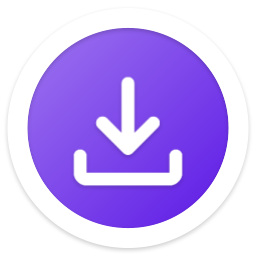
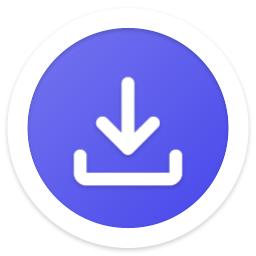
Flesh out search UI

diff --git a/lib/api/beatmaps.js b/lib/api/beatmaps.js
@@ -286,6 +286,7 @@ const getSearchFilterSql = query => {
         if (statusCols[key]) {
             const col = statusCols[key];
             for (const v of list) {
+                console.log(v);
                 const status = utils.osuStatusToInt(v);
                 whereClauses.push(`${col} = ?`);
                 sqlParams.push(status);
@@ -387,7 +388,11 @@ const getSearchFilterSql = query => {
     }
 
     // Join text parts
-    const textQuery = textTerms.join(' ').trim();
+    const textQuery = textTerms
+        .map(term => term.trim())
+        .filter(Boolean)
+        .map(term => `"${term.replace(/"/g, '""')}"`)
+        .join(' ');
 
     if (textQuery || shouldJoinSearchTable) {
         whereClauses.push(`map_search MATCH ?`);
@@ -465,10 +470,10 @@ const searchBeatmaps = (query = '', sort = 'auto', limit = 100, offset = 0) => {
             orderBy = `map.bpm ASC`;
             break;
         case 'length_desc':
-            orderBy = `map.length DESC`;
+            orderBy = `map.total_length DESC`;
             break;
         case 'length_asc':
-            orderBy = `map.length ASC`;
+            orderBy = `map.total_length ASC`;
             break;
         default:
             shouldJoinSearchTable
@@ -476,6 +481,19 @@ const searchBeatmaps = (query = '', sort = 'auto', limit = 100, offset = 0) => {
                 : (orderBy = 'mapset.time_ranked DESC');
             break;
     }
+
+    // Get total result count
+    const totals = db
+        .prepare(
+            `SELECT
+                COUNT(DISTINCT mapset.id) AS total_beatmapsets,
+                COUNT(*) AS total_beatmaps
+            FROM beatmaps map
+            JOIN beatmapsets mapset ON mapset.id = map.beatmapset_id
+            ${shouldJoinSearchTable ? `JOIN map_search ON map_search.beatmap_id = map.id` : ''}
+            ${whereClauses.length ? `WHERE ${whereClauses.join(' AND ')}` : ''}`
+        )
+        .get(...sqlParams);
 
     // Get results
     // We only join the search table if we're preforming full text search
@@ -501,7 +519,8 @@ const searchBeatmaps = (query = '', sort = 'auto', limit = 100, offset = 0) => {
     return {
         beatmapsets,
         limit,
-        offset
+        offset,
+        count: totals
     };
 };
 

diff --git a/apps/web/public/assets/css/theme.css b/apps/web/public/assets/css/theme.css
@@ -48,9 +48,9 @@
 
 body {
     /* Color settings */
-    --base-hue: 250;
+    --base-hue: 240;
     --base-sat: 10%;
-    --accent-hue: 250;
+    --accent-hue: 240;
     --accent-sat: 60%;
 
     /* Base colors */
@@ -221,17 +221,17 @@ thead {
 }
 
 th {
-    background: hsl(220, 20%, 25%);
+    background: var(--c-base-25);
     color: white;
     font-weight: 600;
 }
 
 tr:nth-child(even) {
-    background: hsl(220, 20%, 15%);
+    background: var(--c-base-15);
 }
 
 tr:nth-child(even) {
-    background: hsl(220, 20%, 20%);
+    background: var(--c-base-20);
 }
 
 td {
@@ -394,7 +394,7 @@ label {
 
 hr {
     border: none;
-    border-top: 1px solid hsl(220, 20%, 30%);
+    border-top: 1px solid var(--c-base-30);
     margin: 24px 0px;
 }
 
@@ -403,7 +403,7 @@ img {
 }
 
 ::selection {
-    background: var(--c-accent-60);
+    background: var(--c-accent-70);
     color: black;
 }
 
@@ -416,7 +416,7 @@ img {
 .btn {
     --btnBg: var(--c-base-30);
     --btnBgHover: var(--c-base-40);
-    --btnFg: hsl(220, 20%, 85%);
+    --btnFg: var(--c-base-85);
     --btnFgHover: white;
     height: 32px;
     padding: 0px 12px;
@@ -459,9 +459,9 @@ img {
 
 .btn.primary {
     --btnBg: var(--c-accent-60);
-    --btnBgHover: var(--c-accent-75);
-    --btnFg: var(--c-base-10);
-    --btnFgHover: var(--c-base-12);
+    --btnBgHover: var(--c-accent-65);
+    --btnFg: var(--c-base-100);
+    --btnFgHover: var(--c-base-100);
 }
 
 .btn.translucent {
@@ -473,8 +473,8 @@ img {
 
 .btn.text {
     --btnBg: transparent;
-    --btnBgHover: hsl(220, 20%, 25%);
-    --btnFg: hsl(220, 20%, 80%);
+    --btnBgHover: var(--c-base-25);
+    --btnFg: var(--c-base-80);
     --btnFgHover: white;
 }
 
@@ -487,7 +487,7 @@ img {
 }
 
 .btn.accent {
-    --btnFg: var(--c-accent-60);
+    --btnFg: var(--c-accent-80);
 }
 
 .btn.text.danger {
@@ -588,6 +588,7 @@ img {
     overflow: hidden;
     white-space: nowrap;
     text-overflow: ellipsis;
+    line-height: 1.3;
 }
 
 .btn .icon.filled {
@@ -652,7 +653,7 @@ img {
 }
 
 .textbox:focus-within {
-    box-shadow: 0 0 0 2px var(--c-accent-60);
+    box-shadow: 0 0 0 2px var(--c-accent-65);
 }
 
 .textbox.medium {

diff --git a/apps/web/routes/beatmaps.js b/apps/web/routes/beatmaps.js
@@ -6,22 +6,28 @@ const router = express.Router();
 // Beatmap search
 router.get('/', async (req, res) => {
     const query = req.query.q;
-    const sort = req.query.s || 'auto';
-    const page = Math.max(0, parseInt(req.query.p) || 1);
+    const sort = (req.query.s || 'auto').substring(0, 200);
+    const page = Math.max(1, parseInt(req.query.p) || 1);
     const limit = 120;
     const offset = (page - 1) * limit;
     const results = mapsApi.searchBeatmaps(query, sort, limit, offset);
     res.renderPage('mapSearch', {
+        title: query ? `Maps matching ${query}` : 'Search and filter maps',
         topbar: {
             icon: 'search',
             title: 'Search and filter maps'
         },
+        meta: {
+            title: query ? `${results.count.total_beatmapsets.toLocaleString()} beatmapsets matching "${query}"` : null
+        },
         search: {
             query,
             sort,
-            page
+            page,
+            limit,
+            offset
         },
-        results: results.beatmapsets
+        results
     });
 });
 

diff --git a/lib/utils.js b/lib/utils.js
@@ -205,27 +205,35 @@ const utils = {
         status = typeof status === 'string' ? status.toLowerCase() : status;
         switch (status) {
             case 'graveyard':
+            case 'g':
             case -2:
                 return -2;
             case 'wip':
+            case 'w':
             case -1:
                 return -1;
             case 'pending':
+            case 'p':
             case 0:
                 return 0;
             case 'ranked':
+            case 'r':
             case 1:
                 return 1;
             case 'approved':
+            case 'a':
             case 2:
                 return 2;
             case 'qualified':
+            case 'q':
             case 3:
                 return 3;
             case 'loved':
+            case 'l':
             case 4:
                 return 4;
         }
+        return 1;
     },
 
     /**

diff --git a/apps/web/public/assets/js/base.js b/apps/web/public/assets/js/base.js
@@ -332,11 +332,11 @@ document.addEventListener('DOMContentLoaded', () => {
     initImageLoadStates();
     initSvgIconMasks();
     updateTimestampElements();
-});
 
-// Re-initialize on page update
-document.addEventListener('page:updated', e => {
-    initImageLoadStates();
-    initSvgIconMasks();
-    updateTimestampElements();
+    // Re-initialize on page update
+    document.body.addEventListener('htmx:afterSettle', e => {
+        initImageLoadStates();
+        initSvgIconMasks();
+        updateTimestampElements();
+    });
 });
